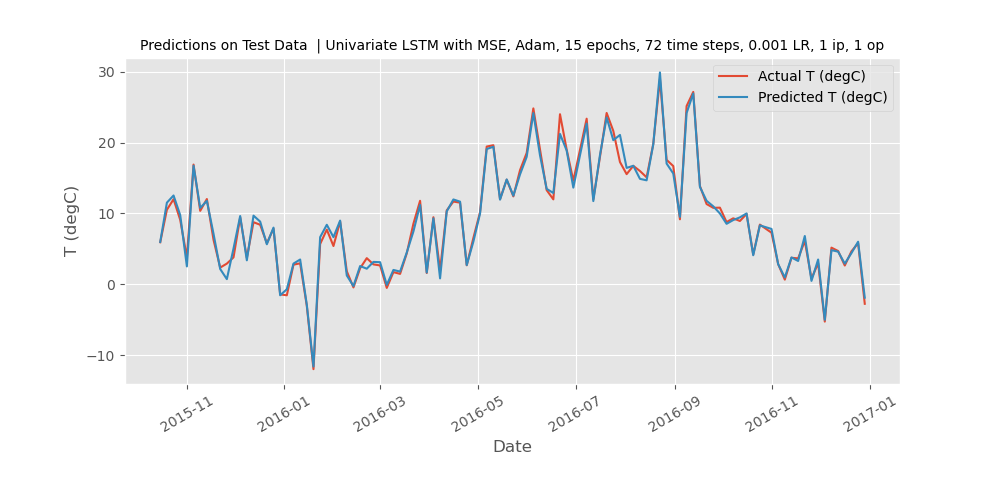
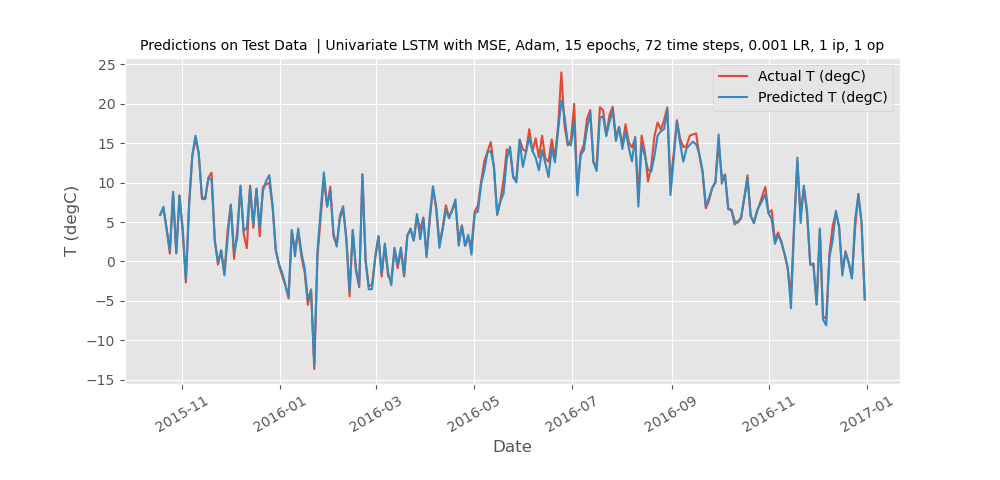
Added

diff --git a/utility.py b/utility.py
@@ -97,14 +97,19 @@ def test_model(model, data, scaler, date_time,  ticks, info='Test Dataset'):
         predictions = predictions_all[:,:,i]
         target = targets[:,:,i]
         
-        
-        prediction_copies = np.repeat(predictions, inputs.shape[1], axis=-1)
-        predictions = scaler.inverse_transform(prediction_copies)[:,1]
-        target_copies = np.repeat(target, inputs.shape[1], axis=-1)
+        if TYPE == 'Univariate':
+            prediction_copies = np.repeat(predictions, inputs.shape[1], axis=-1)
+            target_copies = np.repeat(target, inputs.shape[1], axis=-1)
+        else:
+            prediction_copies = np.repeat(predictions, inputs.shape[2], axis=-1)
+            target_copies = np.repeat(target, inputs.shape[2], axis=-1)
+        predictions = scaler.inverse_transform(prediction_copies)[:,1]        
         actual_target = scaler.inverse_transform(target_copies)[:,1]
-        
+        print("P:", predictions)
+        print("A:", actual_target)
         caption = f"Predictions on {info} "
         file_name = f"of {NAME}.png"
+        plt.style.use("ggplot")
         plt.plot(actual_dates[::ticks], actual_target[::ticks], label=f'Actual {OUTPUT_COLS[i]}')
         plt.plot(actual_dates[::ticks], predictions[::ticks], label=f'Predicted {OUTPUT_COLS[i]}')
         plt.title(f'{caption} | {NAME}', fontsize=10)

diff --git a/dataset.py b/dataset.py
@@ -48,7 +48,7 @@ def create_temperature_data_for_lstm(data, t_past, t_future):
 # Use this function if you need to output multiple values
 def create_multivariate_data_for_lstm(data, t_past, t_future):
     X, Y = [], []
-    cols_index = [m for m in range(OUTPUT_SIZE)] # index of output columns
+    cols_index = [0, 2] # index of output columns
     for i in range(t_past, len(data) - t_future + 1):
         X.append(data[i - t_past : i, 0 : data.shape[1]])
         Y.append(data[i + t_future - 1 : i + t_future, cols_index])
@@ -90,6 +90,7 @@ def load_temperature_dataset(time_steps):
     # Let's do some normalization
     scaler = StandardScaler()
     normalized_data = scaler.fit_transform(df_univariate)
+    print("Normalized Data Shape:", normalized_data.shape)
     # np.savetxt('normalized_univariate.csv', normalized_data)
     
     # Let's create data ready to be used by LSTM
@@ -114,6 +115,7 @@ def load_multivariate_dataset(time_steps):
     # Let's do some normalization
     scaler = StandardScaler()
     normalized_data = scaler.fit_transform(df_multivariate)
+    print("Normalized Data Shape:", normalized_data.shape)
     # np.savetxt('normalized_multivariate.csv', normalized_data)
     
     # Let's create data ready to be used by LSTM

diff --git a/model.py b/model.py
@@ -57,9 +57,9 @@ total_params = sum(p.numel() for p in model.parameters() if p.requires_grad)
 print("[INFO] Total Number of Trainable Parameters : {}".format(total_params))
 
 # Test your Model 
-train_metric = test_model(model, data=train_dataset, scaler=scaler, date_time=date_time, ticks=500, info="Training Data")
-val_metric = test_model(model, data=val_dataset, scaler=scaler, date_time=date_time, ticks=100, info="Validation Data")
-test_metric = test_model(model, data=test_dataset, scaler=scaler, date_time=date_time, ticks=100, info="Test Data")
+train_metric = test_model(model, data=train_dataset, scaler=scaler, date_time=date_time, ticks=48, info="Training Data")
+val_metric = test_model(model, data=val_dataset, scaler=scaler, date_time=date_time, ticks=48, info="Validation Data")
+test_metric = test_model(model, data=test_dataset, scaler=scaler, date_time=date_time, ticks=48, info="Test Data")
 
 # Save evaluation metrics
 print("\nEvaluation Metrics \n")

diff --git a/uti.py b/uti.py
@@ -96,14 +96,10 @@ def test_model(model, data, scaler, date_time,  ticks, info='Test Dataset'):
     for i in range(OUTPUT_SIZE):
         predictions = predictions_all[:,:,i]
         target = targets[:,:,i]
+        print(target.shape)
         
-        print(predictions.shape, inputs.shape[1])
-        predictions = predictions.reshape(predictions.shape[0]*predictions.shape[1], predictions.shape[2])
-        target = target.reshape(target.shape[0]*target.shape[1], target.shape[2])
         prediction_copies = np.repeat(predictions, inputs.shape[1], axis=-1)
-        print(prediction_copies.shape)
         predictions = scaler.inverse_transform(prediction_copies)[:,1]
-        print(predictions.shape)
         target_copies = np.repeat(target, inputs.shape[1], axis=-1)
         actual_target = scaler.inverse_transform(target_copies)[:,1]
         

diff --git a/config.py b/config.py
@@ -8,11 +8,11 @@ BASE_OUTPUT = "output"
 
 
 
-BATCH_SIZE = 256
+BATCH_SIZE = 2048
 NUM_WORKERS = 2
 
 
-NUM_EPOCHS = 1
+NUM_EPOCHS = 15
 LEARNING_RATE = 0.001
 LOSS = "MSE"
 OPTIMIZER = "Adam"
@@ -26,7 +26,7 @@ elif TYPE == "Multivariate":
 
 HIDDEN_SIZE = 10
 NUM_LAYERS = 2
-TIME_STEPS = 24 
+TIME_STEPS = 24 * 365
 
 OUTPUT_COLS = ['T (degC)']
 # OUTPUT_COLS = ['T (degC)', 'p (mbar)']
